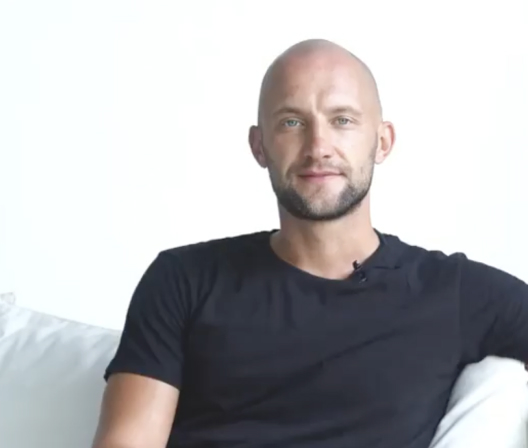
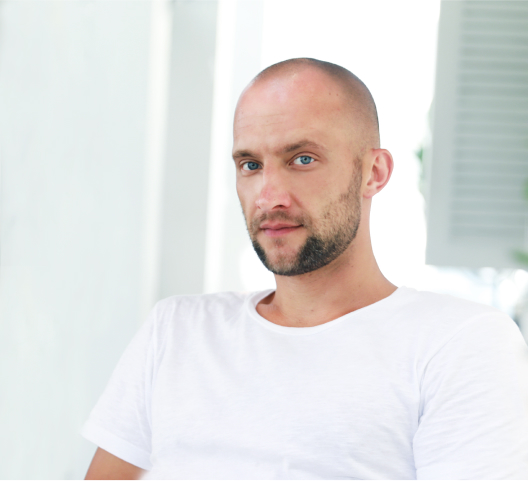
фикс паралакса широких картинок

diff --git a/pages/about.vue b/pages/about.vue
@@ -145,7 +145,7 @@
         KinesisContainer(event="scroll" :duration="100")
           KinesisElement(
             tag="div"
-            :strength="-170"
+            :strength="-260"
             transformOrigin="50% 300%"
             axis="y"
             type="translate")
@@ -153,14 +153,7 @@
             .aboutMission__btn
               Link(href='#' mod='_more' :outside="false") {{ $t("courseSelectBtnText") }}
         .aboutMission__img
-          KinesisContainer(event="scroll" :duration="100")
-            KinesisElement(
-              tag="div"
-              :strength="-130"
-              transformOrigin="50% 300%"
-              axis="y"
-              type="translate")
-                img(src='/img/about/misson.png')
+          img(src='/img/about/misson.png')
 </template>
 
 <script>
@@ -190,16 +183,18 @@ export default {
 
 <style lang="stylus">
 .about
-  padding-bottom 500px
+  padding-bottom 270px
   position relative
   &._leave
     animation translate-out 0.2s cubic-bezier(0.25, 0.46, 0.45, 0.84)
   &._enter
     animation translate-in 0.5s cubic-bezier(0.25, 0.46, 0.45, 0.84)
+  @media $md_minus
+    padding-bottom 250px
   @media $sm_minus
-    padding-bottom 600px
+    padding-bottom 160px
   @media $xs
-    padding-bottom 200px
+    padding-bottom 148px
   &__mission
     margin-top 256px
     @media $md_minus
@@ -322,9 +317,17 @@ export default {
       width 100%
       height 100%
     & img
-      width 100%
-      height 100%
-      object-fit cover
+      width 2560px
+      height 1020px
+      max-width unset
+      transform translate(-50%, -267px)
+      max-height unset
+      object-fit contain
+      position absolute
+      left 50%
+      top 0
+      @media $xs
+        transform translate(-45%, -267px)
   //&:before
   //  content ''
   //  background url('/img/about/about_eyes.jpg') no-repeat
@@ -481,9 +484,17 @@ export default {
       width 100%
       height 100%
     & img
-      width 100%
-      height 100%
-      object-fit cover
+      width 2560px
+      height 1020px
+      max-width unset
+      transform translate(-50%, -467px)
+      max-height unset
+      object-fit contain
+      position absolute
+      left 50%
+      top 0
+      @media $xs
+        transform translate(-60%, -267px)
   //&:before
   //  content ''
   //  position absolute

diff --git a/pages/courses/open-psychosomatics.vue b/pages/courses/open-psychosomatics.vue
@@ -443,9 +443,17 @@ export default {
       width 100%
       height 100%
     & img
-      width 100%
-      height 100%
-      object-fit cover
+      width 2560px
+      height 1020px
+      max-width unset
+      transform translate(-50%, -267px)
+      max-height unset
+      object-fit contain
+      position absolute
+      left 50%
+      top 0
+      @media $xs
+        transform translate(-55%, -267px)
   &__text
     color $bg
 
